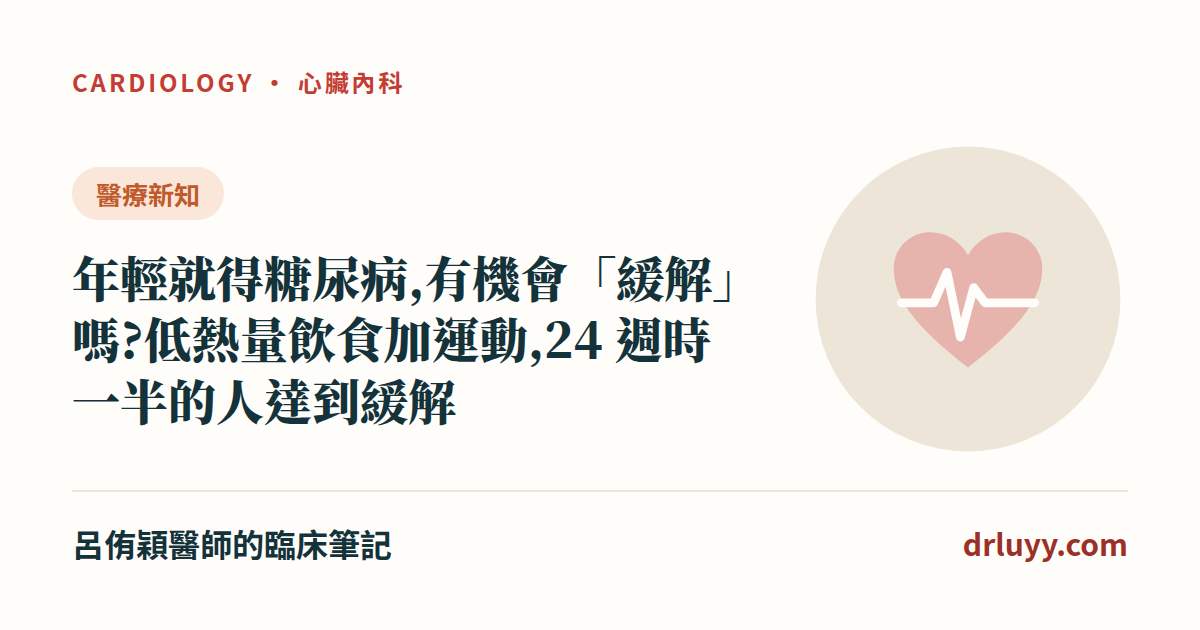
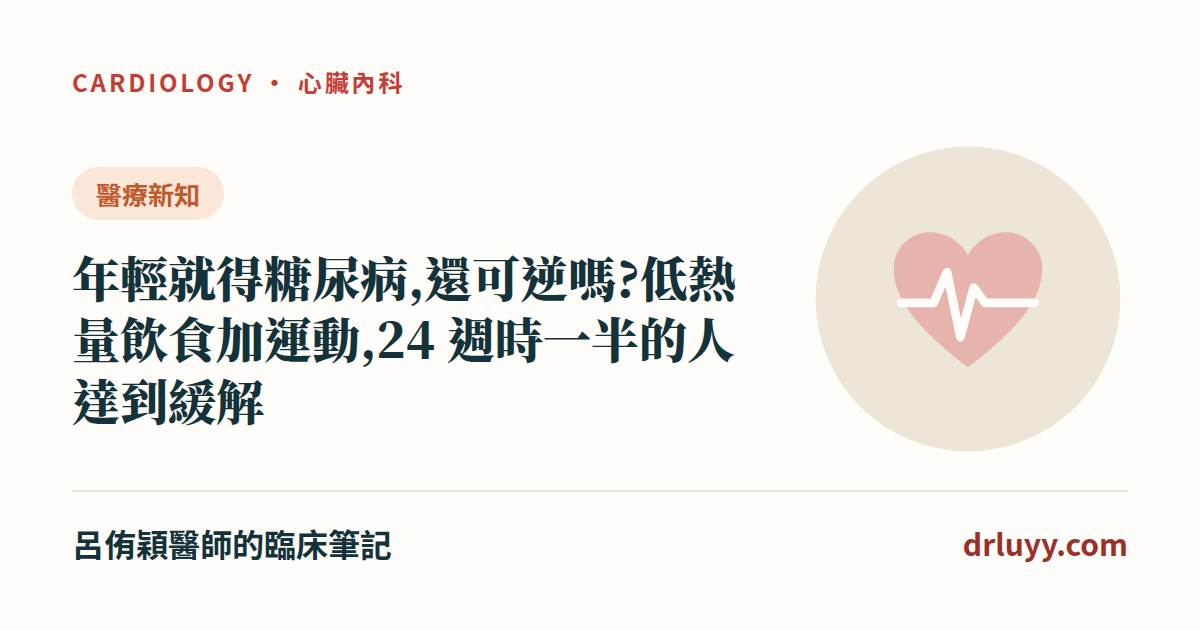
標題改為還可逆嗎;首頁最新

Changed region(s): [[0.0617, 0.3921, 0.6167, 0.6937]]

diff --git a/posts/early-onset-diabetes-remission.html b/posts/early-onset-diabetes-remission.html
@@ -3,12 +3,12 @@
 <head>
 <meta charset="UTF-8">
 <meta name="viewport" content="width=device-width, initial-scale=1.0">
-<title>年輕就得糖尿病,有機會「緩解」嗎?低熱量飲食加運動,24 週時一半的人達到緩解 — 呂侑穎醫師</title>
+<title>年輕就得糖尿病,還可逆嗎?低熱量飲食加運動,24 週時一半的人達到緩解 — 呂侑穎醫師</title>
 <meta name="description" content="年輕就得第二型糖尿病,一定要終身吃藥嗎?2026 年 RESET for Remission 試驗讓 96 位 18–45 歲、合併肥胖的患者隨機分組:介入組在醫療團隊監督下,吃 12 週每天 800–900 大卡的低熱量飲食,加上有人指導的有氧和肌力訓練。24 週時,54% 的人停藥至少 12 週">
 <meta name="author" content="呂侑穎醫師">
 <meta name="robots" content="index, follow">
 <link rel="canonical" href="https://drluyy.com/posts/early-onset-diabetes-remission.html">
-<meta property="og:title" content="年輕就得糖尿病,有機會「緩解」嗎?低熱量飲食加運動,24 週時一半的人達到緩解">
+<meta property="og:title" content="年輕就得糖尿病,還可逆嗎?低熱量飲食加運動,24 週時一半的人達到緩解">
 <meta property="og:description" content="年輕就得第二型糖尿病,一定要終身吃藥嗎?2026 年 RESET for Remission 試驗讓 96 位 18–45 歲、合併肥胖的患者隨機分組:介入組在醫療團隊監督下,吃 12 週每天 800–900 大卡的低熱量飲食,加上有人指導的有氧和肌力訓練。24 週時,54% 的人停藥至少 12 週">
 <meta property="og:type" content="article">
 <meta property="og:url" content="https://drluyy.com/posts/early-onset-diabetes-remission.html">
@@ -21,7 +21,7 @@
 <meta name="twitter:image" content="https://drluyy.com/img/og/early-onset-diabetes-remission.png">
 <link rel="icon" href="../favicon.svg" type="image/svg+xml">
 <script type="application/ld+json">
-{"@context":"https://schema.org","@type":"MedicalWebPage","headline":"年輕就得糖尿病,有機會「緩解」嗎?低熱量飲食加運動,24 週時一半的人達到緩解","name":"年輕就得糖尿病,有機會「緩解」嗎?低熱量飲食加運動,24 週時一半的人達到緩解","description":"年輕就得第二型糖尿病,一定要終身吃藥嗎?2026 年 RESET for Remission 試驗讓 96 位 18–45 歲、合併肥胖的患者隨機分組:介入組在醫療團隊監督下,吃 12 週每天 800–900 大卡的低熱量飲食,加上有人指導的有氧和肌力訓練。24 週時,54% 的人停藥至少 12 週","url":"https://drluyy.com/posts/early-onset-diabetes-remission.html","inLanguage":"zh-TW","image":"https://drluyy.com/img/og/early-onset-diabetes-remission.png","author":{"@type":"Person","name":"呂侑穎","jobTitle":"心臟內科醫師","url":"https://drluyy.com/about.html","sameAs":["https://www.tahsda.org.tw/doctors/doctorcard.php?doctorid=058","https://www.threads.com/@aluminum001"]},"publisher":{"@type":"Organization","name":"台安醫院心臟內科。呂侑穎醫師。臨床筆記"},"dateModified":"2026-10-14","mainEntityOfPage":"https://drluyy.com/posts/early-onset-diabetes-remission.html","datePublished":"2026-10-14"}
+{"@context":"https://schema.org","@type":"MedicalWebPage","headline":"年輕就得糖尿病,還可逆嗎?低熱量飲食加運動,24 週時一半的人達到緩解","name":"年輕就得糖尿病,還可逆嗎?低熱量飲食加運動,24 週時一半的人達到緩解","description":"年輕就得第二型糖尿病,一定要終身吃藥嗎?2026 年 RESET for Remission 試驗讓 96 位 18–45 歲、合併肥胖的患者隨機分組:介入組在醫療團隊監督下,吃 12 週每天 800–900 大卡的低熱量飲食,加上有人指導的有氧和肌力訓練。24 週時,54% 的人停藥至少 12 週","url":"https://drluyy.com/posts/early-onset-diabetes-remission.html","inLanguage":"zh-TW","image":"https://drluyy.com/img/og/early-onset-diabetes-remission.png","author":{"@type":"Person","name":"呂侑穎","jobTitle":"心臟內科醫師","url":"https://drluyy.com/about.html","sameAs":["https://www.tahsda.org.tw/doctors/doctorcard.php?doctorid=058","https://www.threads.com/@aluminum001"]},"publisher":{"@type":"Organization","name":"台安醫院心臟內科。呂侑穎醫師。臨床筆記"},"dateModified":"2026-10-14","mainEntityOfPage":"https://drluyy.com/posts/early-onset-diabetes-remission.html","datePublished":"2026-10-14"}
 </script>
 <link rel="preconnect" href="https://fonts.googleapis.com">
 <link rel="preconnect" href="https://fonts.gstatic.com" crossorigin>
@@ -65,7 +65,7 @@ gtag('config', 'G-BC1Z8X6BQT');
 <a class="back-link" href="../index.html">&larr; 回到全部文章</a>
 <div class="article-head">
 <span class="card-tag news">醫療新知</span>
-<h1>年輕就得糖尿病,有機會「緩解」嗎?低熱量飲食加運動,24 週時一半的人達到緩解</h1>
+<h1>年輕就得糖尿病,還可逆嗎?低熱量飲食加運動,24 週時一半的人達到緩解</h1>
 <div class="article-meta">
 <span>醫療新知</span>
 <span>RESET for Remission 隨機試驗</span>
@@ -73,7 +73,7 @@ gtag('config', 'G-BC1Z8X6BQT');
 </div>
 <div class="content-card">
 <figure class="article-figure"><a href="../img/fig/diabetes-remission-6.png" target="_blank" rel="noopener"><img src="../img/fig/diabetes-remission-6.png" alt="年輕就得糖尿病,有機會緩解嗎" width="1080" height="1350" loading="lazy"></a><figcaption>一張圖看懂 RESET for Remission 試驗(點圖看大圖、可存圖分享)</figcaption></figure>
-<div class="article-body">【醫療新知】年輕就得糖尿病,有機會「緩解」嗎?低熱量飲食加運動,24 週時一半的人達到緩解
+<div class="article-body">【醫療新知】年輕就得糖尿病,還可逆嗎?低熱量飲食加運動,24 週時一半的人達到緩解
 
 ━━━━━━━━━━━━━━━━━━━━━━━
 
@@ -194,7 +194,7 @@ gtag('config', 'G-BC1Z8X6BQT');
 <section class="comments-wrap">
 <h2 class="comments-title">留言與回饋</h2>
 <p class="comments-note">歡迎在下方留下你的想法或問題，留言經審核後才會公開顯示。<strong>提醒：本區不提供個別診療，個人病情請就醫或掛號諮詢。</strong></p>
-<div id="cusdis_thread" data-host="https://cusdis.com" data-app-id="0587d292-27ab-4082-bc76-15c0cd50293d" data-page-id="https://drluyy.com/posts/early-onset-diabetes-remission.html" data-page-url="https://drluyy.com/posts/early-onset-diabetes-remission.html" data-page-title="年輕就得糖尿病,有機會「緩解」嗎?低熱量飲食加運動,24 週時一半的人達到緩解"></div>
+<div id="cusdis_thread" data-host="https://cusdis.com" data-app-id="0587d292-27ab-4082-bc76-15c0cd50293d" data-page-id="https://drluyy.com/posts/early-onset-diabetes-remission.html" data-page-url="https://drluyy.com/posts/early-onset-diabetes-remission.html" data-page-title="年輕就得糖尿病,還可逆嗎?低熱量飲食加運動,24 週時一半的人達到緩解"></div>
 <script async defer src="https://cusdis.com/js/cusdis.es.js"></script>
 </section>
 

diff --git a/index.html b/index.html
@@ -131,20 +131,20 @@ gtag('config', 'G-BC1Z8X6BQT');
 <a href="posts.html" class="more">查看全部文章 →</a>
 </div>
 <div class="cards" style="padding-left:0;padding-right:0">
+<a class="card" href="posts/early-onset-diabetes-remission.html">
+<div class="card-header">
+<span class="card-tag news">醫療新知</span>
+<div class="card-title">年輕就得糖尿病,還可逆嗎?低熱量飲食加運動,24 週時一半的人達到緩解</div>
+<div class="card-subtitle">年輕就得第二型糖尿病,一定要終身吃藥嗎?2026 年 RESET for Remission 試驗讓 96 位 18–45 歲、合併肥胖的患者隨機分組:介入組在醫療團隊監督下,吃 12 週每天 800–900 大卡的低熱量飲食,加上有人指導的有氧和肌力訓練。24 週時,54% 的人停藥至少 12 週、糖化血色素仍低於 6.5%,常規照顧組只有 4%;多減的體重主要是脂肪,體能也變好。這篇整理試驗結果、副作用,以及為什麼不能自己照著做。</div>
+<div class="card-meta"><span>2026-10-14</span></div>
+</div>
+<div class="card-footer"><span class="read-btn">閱讀全文 →</span></div>
+</a>
 <a class="card" href="posts/pregnancy-hypertension-heart.html">
 <div class="card-header">
 <span class="card-tag news">醫療新知</span>
 <div class="card-title">懷孕時血壓高,生完就沒事了嗎?妊娠高血壓、子癲前症與日後的心臟風險</div>
 <div class="card-subtitle">懷孕時血壓高,生完血壓降下來,就沒事了嗎?研究發現,有子癲前症病史的女性,日後高血壓風險約 3–4 倍、冠心病和中風約 2 倍、心臟衰竭約 4 倍。懷孕期間,把輕度高血壓控制在 140/90 以下,能減少嚴重子癲前症和早產;高風險孕婦早期吃低劑量阿斯匹靈,能預防早發型子癲前症。這篇整理懷孕高血壓的種類、治療,以及產後該怎麼追蹤。</div>
-<div class="card-meta"><span>2026-10-14</span></div>
-</div>
-<div class="card-footer"><span class="read-btn">閱讀全文 →</span></div>
-</a>
-<a class="card" href="posts/sugary-drinks-cancer.html">
-<div class="card-header">
-<span class="card-tag news">醫療新知</span>
-<div class="card-title">喝含糖飲料會致癌嗎?胃癌風險「2.45 倍」背後的真實數字</div>
-<div class="card-subtitle">「每天喝超過一杯含糖飲料,胃癌風險 2.45 倍」——美國約 11 萬人的長期研究這樣說,但實際觀察到的發生率,每 10 萬人一年是 16.3 例對 7.7 例。法國研究也發現含糖飲料、甚至 100% 純果汁,和整體癌症、乳癌風險較高有關。這些都是觀察研究,還不能證明直接致癌;但用水取代含糖飲料,本來就有其他好處。這篇整理研究怎麼看、真實風險有多大,以及手搖飲怎麼選。</div>
 <div class="card-meta"><span>2026-10-14</span></div>
 </div>
 <div class="card-footer"><span class="read-btn">閱讀全文 →</span></div>
@@ -196,12 +196,12 @@ gtag('config', 'G-BC1Z8X6BQT');
 <a href="posts.html" class="more">查看全部 76 篇 →</a>
 </div>
 <div class="cards" style="padding-left:0;padding-right:0">
-<a class="card" href="posts/early-onset-diabetes-remission.html">
+<a class="card" href="posts/sugary-drinks-cancer.html">
 <div class="card-header">
 <span class="card-tag news">醫療新知</span>
-<div class="card-title">年輕就得糖尿病,有機會「緩解」嗎?低熱量飲食加運動,24 週時一半的人達到緩解</div>
-<div class="card-subtitle">年輕就得第二型糖尿病,一定要終身吃藥嗎?2026 年 RESET for Remission 試驗讓 96 位 18–45 歲、合併肥胖的患者隨機分組:介入組在醫療團隊監督下,吃 12 週每天 800–900 大卡的低熱量飲食,加上有人指導的有氧和肌力訓練。24 週時,54% 的人停藥至少 12 週、糖化血色素仍低於 6.5%,常規照顧組只有 4%;多減的體重主要是脂肪,體能也變好。這篇整理試驗結果、副作用,以及為什麼不能自己照著做。</div>
-<div class="card-meta"><span>醫療新知</span><span>RESET for Remission 隨機試驗</span></div>
+<div class="card-title">喝含糖飲料會致癌嗎?胃癌風險「2.45 倍」背後的真實數字</div>
+<div class="card-subtitle">「每天喝超過一杯含糖飲料,胃癌風險 2.45 倍」——美國約 11 萬人的長期研究這樣說,但實際觀察到的發生率,每 10 萬人一年是 16.3 例對 7.7 例。法國研究也發現含糖飲料、甚至 100% 純果汁,和整體癌症、乳癌風險較高有關。這些都是觀察研究,還不能證明直接致癌;但用水取代含糖飲料,本來就有其他好處。這篇整理研究怎麼看、真實風險有多大,以及手搖飲怎麼選。</div>
+<div class="card-meta"><span>醫療新知</span><span>Gastro Hep Advances 2026 + BMJ 2019</span></div>
 </div>
 <div class="card-footer"><span class="read-btn">閱讀全文 →</span></div>
 </a>

diff --git a/posts.html b/posts.html
@@ -72,7 +72,7 @@ gtag('config', 'G-BC1Z8X6BQT');
 <a class="card" href="posts/early-onset-diabetes-remission.html">
 <div class="card-header">
 <span class="card-tag news">醫療新知</span>
-<div class="card-title">年輕就得糖尿病,有機會「緩解」嗎?低熱量飲食加運動,24 週時一半的人達到緩解</div>
+<div class="card-title">年輕就得糖尿病,還可逆嗎?低熱量飲食加運動,24 週時一半的人達到緩解</div>
 <div class="card-subtitle">年輕就得第二型糖尿病,一定要終身吃藥嗎?2026 年 RESET for Remission 試驗讓 96 位 18–45 歲、合併肥胖的患者隨機分組:介入組在醫療團隊監督下,吃 12 週每天 800–900 大卡的低熱量飲食,加上有人指導的有氧和肌力訓練。24 週時,54% 的人停藥至少 12 週、糖化血色素仍低於 6.5%,常規照顧組只有 4%;多減的體重主要是脂肪,體能也變好。這篇整理試驗結果、副作用,以及為什麼不能自己照著做。</div>
 <div class="card-meta"><span>醫療新知</span><span>RESET for Remission 隨機試驗</span></div>
 </div>

diff --git a/news.html b/news.html
@@ -74,7 +74,7 @@ gtag('config', 'G-BC1Z8X6BQT');
 <a class="card" href="posts/early-onset-diabetes-remission.html">
 <div class="card-header">
 <span class="card-tag news">醫療新知</span>
-<div class="card-title">年輕就得糖尿病,有機會「緩解」嗎?低熱量飲食加運動,24 週時一半的人達到緩解</div>
+<div class="card-title">年輕就得糖尿病,還可逆嗎?低熱量飲食加運動,24 週時一半的人達到緩解</div>
 <div class="card-subtitle">年輕就得第二型糖尿病,一定要終身吃藥嗎?2026 年 RESET for Remission 試驗讓 96 位 18–45 歲、合併肥胖的患者隨機分組:介入組在醫療團隊監督下,吃 12 週每天 800–900 大卡的低熱量飲食,加上有人指導的有氧和肌力訓練。24 週時,54% 的人停藥至少 12 週、糖化血色素仍低於 6.5%,常規照顧組只有 4%;多減的體重主要是脂肪,體能也變好。這篇整理試驗結果、副作用,以及為什麼不能自己照著做。</div>
 <div class="card-meta">
 <span>醫療新知</span>

diff --git a/trials.html b/trials.html
@@ -74,7 +74,7 @@ gtag('config', 'G-BC1Z8X6BQT');
 <a class="card" href="posts/early-onset-diabetes-remission.html">
 <div class="card-header">
 <span class="card-tag news">醫療新知</span>
-<div class="card-title">年輕就得糖尿病,有機會「緩解」嗎?低熱量飲食加運動,24 週時一半的人達到緩解</div>
+<div class="card-title">年輕就得糖尿病,還可逆嗎?低熱量飲食加運動,24 週時一半的人達到緩解</div>
 <div class="card-subtitle">年輕就得第二型糖尿病,一定要終身吃藥嗎?2026 年 RESET for Remission 試驗讓 96 位 18–45 歲、合併肥胖的患者隨機分組:介入組在醫療團隊監督下,吃 12 週每天 800–900 大卡的低熱量飲食,加上有人指導的有氧和肌力訓練。24 週時,54% 的人停藥至少 12 週、糖化血色素仍低於 6.5%,常規照顧組只有 4%;多減的體重主要是脂肪,體能也變好。這篇整理試驗結果、副作用,以及為什麼不能自己照著做。</div>
 <div class="card-meta">
 <span>醫療新知</span>
